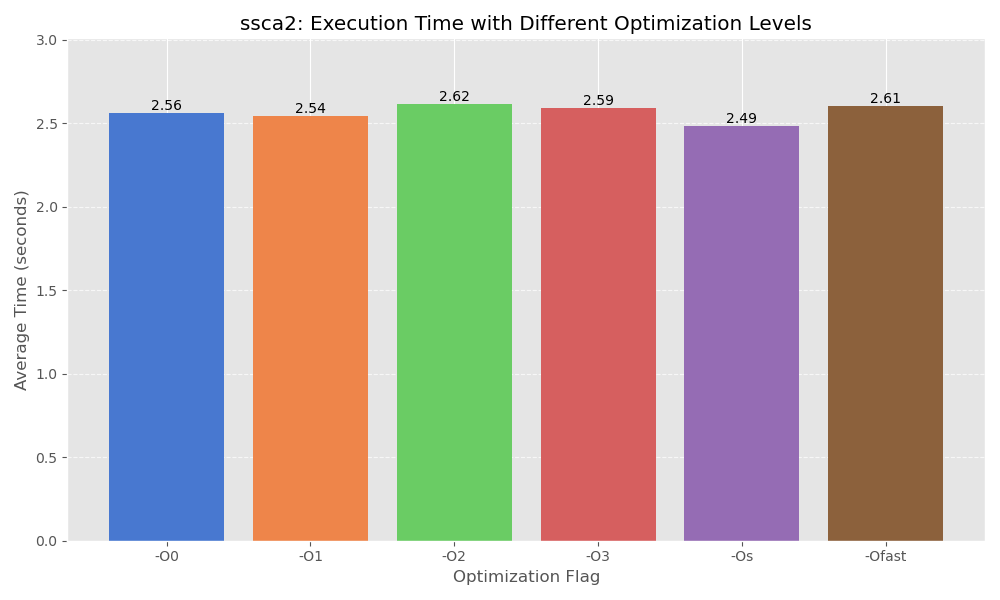
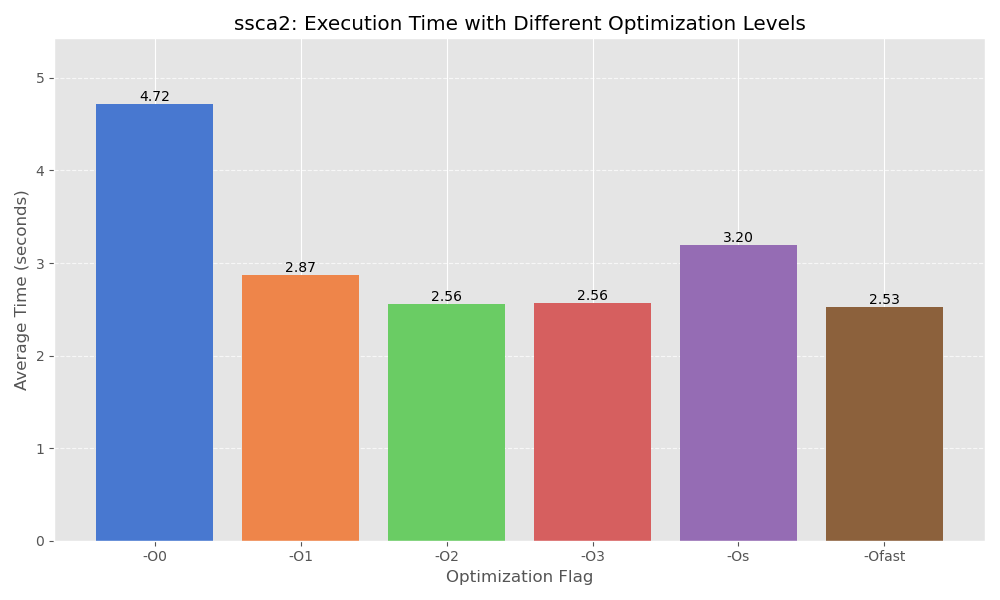
Update results_a for cluster

diff --git a/05/results_a/performance_results_cluster.md b/05/results_a/performance_results_cluster.md
@@ -337,7 +337,7 @@ ssca2 Benchmark O0
 
 | Parameters | Avg Time (s) | User CPU (s) | System CPU (s) | Memory (KB) | Std Dev (s) | Min Time (s) | Max Time (s) | Variance (s²) | Notes |
 |------------|--------------|--------------|----------------|-------------|-------------|-------------|-------------|--------------|-------|
-| `15` | 9.676667 | 9.750000000 | 0 | 8212 | 9.646667 | 1.000e-10 | 0.0740870 | 9.610000 | Target precision of 0.05 reached after 3 runs , Cluster execution, Cache cleared |
+| `15` | 9.746667 | 9.650000000 | 0 | 8176 | 9.716667 | 1.000e-10 | 0.0736357 | 9.620000 | Target precision of 0.05 reached after 6 runs , Cluster execution, Cache cleared |
 ## larger_samples/ssca2/build_O1/ssca2
 
 ssca2 Benchmark O1
@@ -350,7 +350,7 @@ ssca2 Benchmark O1
 
 | Parameters | Avg Time (s) | User CPU (s) | System CPU (s) | Memory (KB) | Std Dev (s) | Min Time (s) | Max Time (s) | Variance (s²) | Notes |
 |------------|--------------|--------------|----------------|-------------|-------------|-------------|-------------|--------------|-------|
-| `15` | 9.810000 | 9.800000000 | 0 | 8168 | 9.783333 | 1.000e-10 | 0.0141421 | 9.790000 | Target precision of 0.05 reached after 3 runs , Cluster execution, Cache cleared |
+| `15` | 9.781667 | 9.770000000 | 0 | 8184 | 9.751667 | 0.0016667 | 0.0841460 | 9.600000 | Target precision of 0.05 reached after 6 runs , Cluster execution, Cache cleared |
 ## larger_samples/ssca2/build_O2/ssca2
 
 ssca2 Benchmark O2
@@ -363,7 +363,7 @@ ssca2 Benchmark O2
 
 | Parameters | Avg Time (s) | User CPU (s) | System CPU (s) | Memory (KB) | Std Dev (s) | Min Time (s) | Max Time (s) | Variance (s²) | Notes |
 |------------|--------------|--------------|----------------|-------------|-------------|-------------|-------------|--------------|-------|
-| `15` | 9.796667 | 9.790000000 | 0 | 8164 | 9.766667 | 1.000e-10 | 0.0618241 | 9.710000 | Target precision of 0.05 reached after 3 runs , Cluster execution, Cache cleared |
+| `15` | 9.795000 | 9.800000000 | 0 | 8104 | 9.765000 | 1.000e-10 | 0.0871302 | 9.610000 | Target precision of 0.05 reached after 6 runs , Cluster execution, Cache cleared |
 ## larger_samples/ssca2/build_O3/ssca2
 
 ssca2 Benchmark O3
@@ -376,7 +376,7 @@ ssca2 Benchmark O3
 
 | Parameters | Avg Time (s) | User CPU (s) | System CPU (s) | Memory (KB) | Std Dev (s) | Min Time (s) | Max Time (s) | Variance (s²) | Notes |
 |------------|--------------|--------------|----------------|-------------|-------------|-------------|-------------|--------------|-------|
-| `15` | 9.816667 | 9.780000000 | 0 | 8164 | 9.786667 | 1.000e-10 | 0.0249444 | 9.790000 | Target precision of 0.05 reached after 3 runs , Cluster execution, Cache cleared |
+| `15` | 9.678333 | 9.790000000 | 0 | 8216 | 9.650000 | 1.000e-10 | 0.0935266 | 9.600000 | Target precision of 0.05 reached after 6 runs , Cluster execution, Cache cleared |
 ## larger_samples/ssca2/build_Os/ssca2
 
 ssca2 Benchmark Os
@@ -389,7 +389,7 @@ ssca2 Benchmark Os
 
 | Parameters | Avg Time (s) | User CPU (s) | System CPU (s) | Memory (KB) | Std Dev (s) | Min Time (s) | Max Time (s) | Variance (s²) | Notes |
 |------------|--------------|--------------|----------------|-------------|-------------|-------------|-------------|--------------|-------|
-| `15` | 9.773333 | 9.740000000 | 0 | 8100 | 9.743333 | 1.000e-10 | 0.0694422 | 9.690000 | Target precision of 0.05 reached after 3 runs , Cluster execution, Cache cleared |
+| `15` | 9.783333 | 9.760000000 | 0 | 8196 | 9.748333 | 0.0016667 | 0.0756454 | 9.630000 | Target precision of 0.05 reached after 6 runs , Cluster execution, Cache cleared |
 ## larger_samples/ssca2/build_Ofast/ssca2
 
 ssca2 Benchmark Ofast
@@ -402,7 +402,7 @@ ssca2 Benchmark Ofast
 
 | Parameters | Avg Time (s) | User CPU (s) | System CPU (s) | Memory (KB) | Std Dev (s) | Min Time (s) | Max Time (s) | Variance (s²) | Notes |
 |------------|--------------|--------------|----------------|-------------|-------------|-------------|-------------|--------------|-------|
-| `15` | 9.850000 | 9.820000000 | 0 | 8208 | 9.820000 | 1.000e-10 | 1.000e-10 | 9.850000 | Target precision of 0.05 reached after 3 runs , Cluster execution, Cache cleared |
+| `15` | 9.791667 | 9.780000000 | 0 | 8072 | 9.763333 | 1.000e-10 | 0.0614862 | 9.660000 | Target precision of 0.05 reached after 6 runs , Cluster execution, Cache cleared |
 ## larger_samples/npb_bt/build/npb_bt_w
 
 NPB BT Benchmark O0
@@ -415,7 +415,7 @@ NPB BT Benchmark O0
 
 | Parameters | Avg Time (s) | User CPU (s) | System CPU (s) | Memory (KB) | Std Dev (s) | Min Time (s) | Max Time (s) | Variance (s²) | Notes |
 |------------|--------------|--------------|----------------|-------------|-------------|-------------|-------------|--------------|-------|
-| `` | 11.610000 | 11.420000000 | 0 | 4520 | 11.576667 | 1.000e-10 | 0.106771 | 11.460000 | Target precision of 0.05 reached after 3 runs , Cluster execution, Cache cleared |
+| `` | 11.556667 | 11.540000000 | 0 | 4608 | 11.516667 | 1.000e-10 | 0.0729536 | 11.410000 | Target precision of 0.05 reached after 6 runs , Cluster execution, Cache cleared |
 ## larger_samples/npb_bt/build/npb_bt_w
 
 NPB BT Benchmark O1
@@ -428,7 +428,7 @@ NPB BT Benchmark O1
 
 | Parameters | Avg Time (s) | User CPU (s) | System CPU (s) | Memory (KB) | Std Dev (s) | Min Time (s) | Max Time (s) | Variance (s²) | Notes |
 |------------|--------------|--------------|----------------|-------------|-------------|-------------|-------------|--------------|-------|
-| `` | 11.623333 | 11.620000000 | 0 | 4492 | 11.593333 | 1.000e-10 | 0.0249444 | 11.590000 | Target precision of 0.05 reached after 3 runs , Cluster execution, Cache cleared |
+| `` | 11.595000 | 11.650000000 | 0 | 4608 | 11.558333 | 1.000e-10 | 0.136717 | 11.370000 | Target precision of 0.05 reached after 6 runs , Cluster execution, Cache cleared |
 ## larger_samples/npb_bt/build/npb_bt_w
 
 NPB BT Benchmark O2
@@ -441,7 +441,7 @@ NPB BT Benchmark O2
 
 | Parameters | Avg Time (s) | User CPU (s) | System CPU (s) | Memory (KB) | Std Dev (s) | Min Time (s) | Max Time (s) | Variance (s²) | Notes |
 |------------|--------------|--------------|----------------|-------------|-------------|-------------|-------------|--------------|-------|
-| `` | 11.470000 | 11.320000000 | 0 | 4604 | 11.436667 | 1.000e-10 | 0.0941630 | 11.360000 | Target precision of 0.05 reached after 3 runs , Cluster execution, Cache cleared |
+| `` | 11.551667 | 11.590000000 | 0 | 4680 | 11.516667 | 1.000e-10 | 0.0456131 | 11.490000 | Target precision of 0.05 reached after 6 runs , Cluster execution, Cache cleared |
 ## larger_samples/npb_bt/build/npb_bt_w
 
 NPB BT Benchmark O3
@@ -454,7 +454,7 @@ NPB BT Benchmark O3
 
 | Parameters | Avg Time (s) | User CPU (s) | System CPU (s) | Memory (KB) | Std Dev (s) | Min Time (s) | Max Time (s) | Variance (s²) | Notes |
 |------------|--------------|--------------|----------------|-------------|-------------|-------------|-------------|--------------|-------|
-| `` | 11.513333 | 11.420000000 | 0 | 4588 | 11.480000 | 1.000e-10 | 0.104030 | 11.430000 | Target precision of 0.05 reached after 3 runs , Cluster execution, Cache cleared |
+| `` | 11.588333 | 11.510000000 | 0 | 4504 | 11.555000 | 1.000e-10 | 0.103669 | 11.470000 | Target precision of 0.05 reached after 6 runs , Cluster execution, Cache cleared |
 ## larger_samples/npb_bt/build/npb_bt_w
 
 NPB BT Benchmark Os
@@ -467,7 +467,7 @@ NPB BT Benchmark Os
 
 | Parameters | Avg Time (s) | User CPU (s) | System CPU (s) | Memory (KB) | Std Dev (s) | Min Time (s) | Max Time (s) | Variance (s²) | Notes |
 |------------|--------------|--------------|----------------|-------------|-------------|-------------|-------------|--------------|-------|
-| `` | 11.526667 | 11.490000000 | 0 | 4520 | 11.493333 | 1.000e-10 | 0.122565 | 11.380000 | Target precision of 0.05 reached after 3 runs , Cluster execution, Cache cleared |
+| `` | 11.610000 | 11.610000000 | 0 | 4528 | 11.576667 | 1.000e-10 | 0.0637704 | 11.540000 | Target precision of 0.05 reached after 6 runs , Cluster execution, Cache cleared |
 ## larger_samples/npb_bt/build/npb_bt_w
 
 NPB BT Benchmark Ofast
@@ -480,4 +480,4 @@ NPB BT Benchmark Ofast
 
 | Parameters | Avg Time (s) | User CPU (s) | System CPU (s) | Memory (KB) | Std Dev (s) | Min Time (s) | Max Time (s) | Variance (s²) | Notes |
 |------------|--------------|--------------|----------------|-------------|-------------|-------------|-------------|--------------|-------|
-| `` | 11.456667 | 11.310000000 | 0 | 4500 | 11.423333 | 1.000e-10 | 0.0793025 | 11.350000 | Target precision of 0.05 reached after 3 runs , Cluster execution, Cache cleared |
+| `` | 11.503333 | 11.380000000 | 0 | 4528 | 11.468333 | 1.000e-10 | 0.0869227 | 11.390000 | Target precision of 0.05 reached after 6 runs , Cluster execution, Cache cleared |

diff --git a/05/Barbist_05.md b/05/Barbist_05.md
@@ -7,13 +7,12 @@ A) Basic Optimization Levels
 
 ## Discusion
 - For delannoy: Further optimizations (-O3, -Ofast) don't improve performance beyond -O2
-- For mmul: It already sees performance improvements with -O1, the other flags do not show any further improvements
+- For mmul: It already sees performance improvements with -O1, the other flags do not show any further improvements, some improvements with -Ofast
 - For nbody: Mostly the same as with mmul but further improvements are seen when compiled with -Ofast.
-- For npb: Almost no performance difference between optimization levels
-- For qap: Almost consisted performance accorss all optimization levels, but -O0
-- For ssca2: Same as with npb, no performance difference between optimization levels
-- Like expexted -O0 has the worst performance(With some exceptions for npb and ssca2).
-- npb and ssca2 did not really get any performance improvements when run with optimizations flags(They are probably already optimized in the source code).
+- For npb: Almost consisted performance across all optimization levels, but -O0.
+- For qap: Almost consisted performance across all optimization levels, but -O0. -O1 and -Os are a bit worse than the rest.
+- For ssca2: Almost consisted performance across all optimization levels, but -O0. -O1 and -Os are a bit worse than the rest.
+- Like expected -O0 has the worst performance.
 
 
 B) Individual Compiler Optimizations
